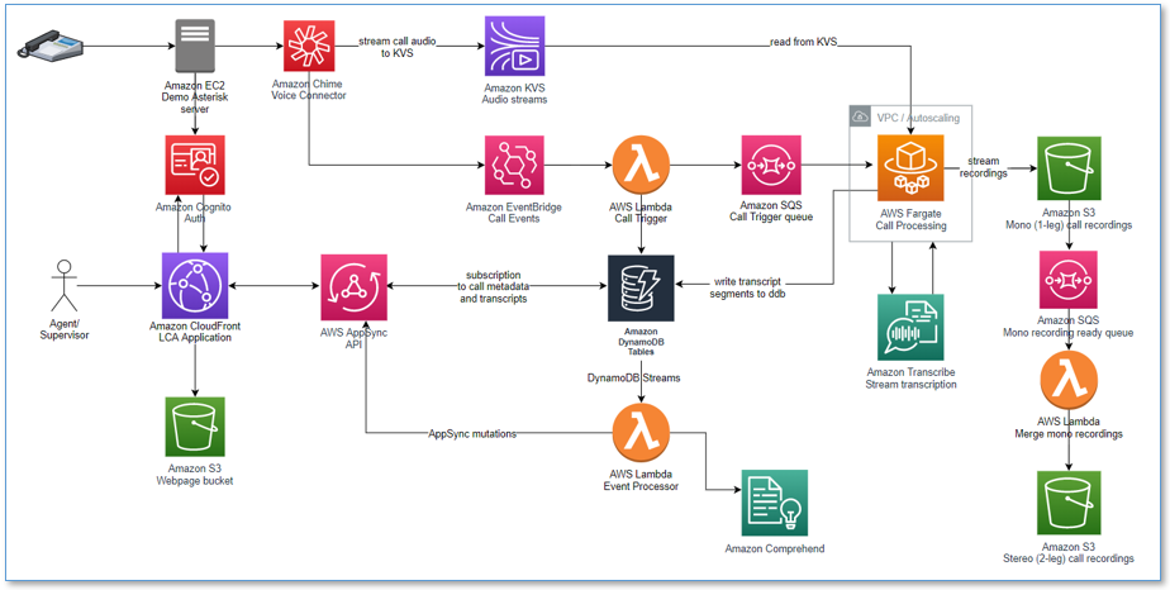
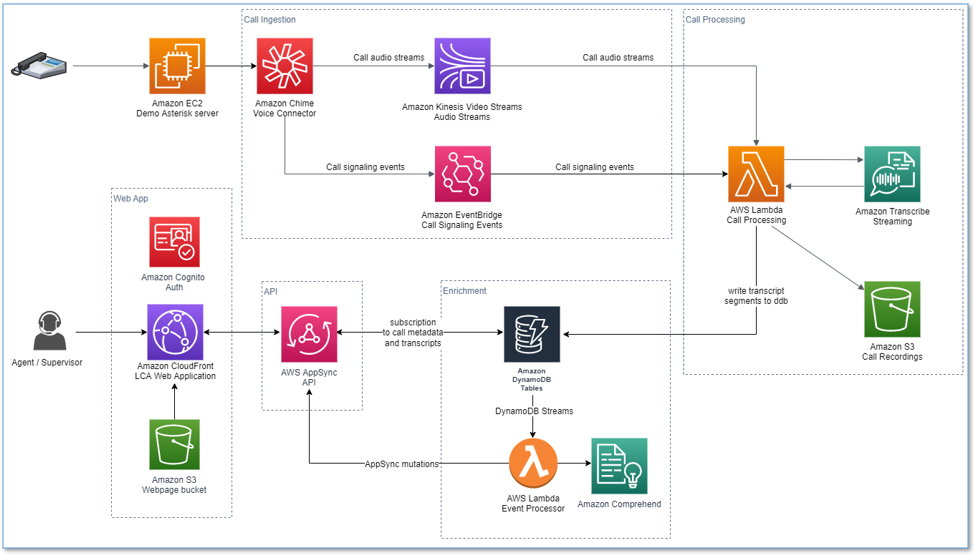
doc: update changelog, readme and licenses

Changed region(s): [[0.0, 0.0, 1.0, 1.0], [0.6776, 0.582, 0.7084, 0.6126]]

diff --git a/README.md b/README.md
@@ -1,36 +1,41 @@
 # Amazon Transcribe Live Call Analytics (LCA) Sample Solution
 *Companion AWS blog post: [Livecall analytics for your contact center with Amazon language AI services](http://www.amazon.com/live-call-analytics)*
 ## Overview
-Your contact center connects your business to your constituents, enabling customers to order products, callers to request support, clients to make appointments, and much more. When calls go well, callers retain a positive image of your brand, and are likely to return and to recommend you to others. And the converse, of course, is also true.
-So naturally you want to do what you can to ensure that your callers have a good experience. You see two aspects to this:
-1.	Help supervisors to assess the quality of your caller’s experiences in real time. For example, your supervisors need to know if initially unhappy callers become happier as the call progresses? And if not, why?  What actions can be taken, before the call ends, to assist the agent to improve the customer experience for call that are not going well?
-2.	Help agents to optimize the quality of your caller’s experiences. For example, can you deploy live call transcription removing the need for your agents to take notes during calls, freeing them to focus more attention on providing positive customer interactions.
+Your contact center connects your business to your community, enabling customers to order products, callers to request support, clients to make appointments, and much more. When calls go well, callers retain a positive image of your brand, and are likely to return and recommend you to others. And the converse, of course, is also true.
+
+Naturally, you want to do what you can to ensure that your callers have a good experience. There are two aspects to this:
+
+- Help supervisors assess the quality of your caller’s experiences in real time – For example, your supervisors need to know if initially unhappy callers become happier as the call progresses. And if not, why? What actions can be taken, before the call ends, to assist the agent to improve the customer experience for calls that aren’t going well?
+- Help agents optimize the quality of your caller’s experiences – For example, can you deploy live call transcription? This removes the need for your agents to take notes during calls, freeing them to focus more attention on providing positive customer interactions.
+
+Amazon machine learning services like Amazon Transcribe and Amazon Comprehend provide feature-rich APIs that you can use to transcribe and extract insights from your contact center audio at scale. Although you could build your own custom call analytics solution using these services, that requires time and resources. You figure that someone must have done this before, and that with luck you’ll find a solution that you can re-use.
+
 You’ve heard that Contact Lens for Amazon Connect provides real time supervisor and agent assist features that sound like they are just what you need, but you are not yet using Amazon Connect. You need a solution that will work with your existing contact center.
 
-Amazon machine learning services like Amazon Transcribe and Amazon Comprehend provide feature-rich APIs that you can use to transcribe and extract insights from your contact center audio at scale. Although you could build your own custom call analytics solution using these services, that requires time and resources. You figure that someone must have done this before, and that with luck you’ll find a solution that you can re-use. 
-
-Live Call Analytics, or LCA, does most of the heavy lifting associated with providing an end-to-end sample solution that can plug into your contact center and provide the intelligent insights that you need. 
+Live Call Analytics, or LCA, does most of the heavy lifting associated with providing an end-to-end sample solution that can plug into your contact center and provide the intelligent insights that you need.
 
 ## Architecture
 ![lca-architecture](./images/architecture-diagram.png)
-The demo Asterisk server is configured to use Amazon Chime Voice Connector which provides the phone number and SIP trunking needed to route inbound and outbound calls. When you configure LCA to integrate with your contact center instead of the demo Asterisk server, the Chime Voice Connector is configured to integrate instead with your existing contact center using SIP-based media recording (SIPREC) or network-based recording (NBR). In both cases, the Chime voice connector streams audio to Kinesis Video Streams (KVS) using 2 streams per call, one for the Caller and one for the Agent.
+The demo Asterisk server is configured to use Amazon Voice Connector, which provides the phone number and SIP trunking needed to route inbound and outbound calls. When you configure LCA to integrate with your contact center using the Chime Voice Connector (SIPREC) option, instead of the demo Asterisk server, Voice Connector is configured to integrate instead with your existing contact center using SIP-based media recording (SIPREC) or network-based recording (NBR). In both cases, Voice Connector streams audio to Kinesis Video Streams using two streams per call, one for the caller and one for the agent. (The new Genesys Cloud AudioHook integration option uses a different architecture for call ingestion and call processing – see the [Genesys AudioHook README](/lca-genesys-audiohook-stack/README.md) for details.)
 
-When a new KVS stream is initiated, an event is fired using Amazon EventBridge. This event triggers an AWS Lambda function which in turn uses an SQS queues to initiate a new call processing job in AWS Fargate, a serverless compute service for containers. A single container instance processes multiple calls simultaneously. AWS auto-scaling provisions and de-provisions additional containers dynamically as needed to handle changing call volumes.
-The Fargate container immediately creates a streaming connection with Amazon Transcribe and starts consuming and relaying audio fragments from KVS to Transcribe. The container writes the streaming transcription results in real time to a DynamoDB table. 
+When a new caller or agent Kinesis Video stream is initiated, an event is fired using EventBridge. This event triggers the Call Processing Lambda function. When both the caller and agent streams have been established, the function starts consuming real time audio fragments from both input streams and combines them to create a new stereo audio stream. The stereo audio is streamed to an Amazon Transcribe session, and the transcription results are written in real time to a DynamoDB table.
 
-An AWS Lambda function, the Call Event Stream Processor, fed by DynamoDB streams, processes and enriches call metadata and transcription segments. The event processor function interfaces with AWS AppSync to persist changes (mutations) in DynamoDB and to send real time updates to logged in web clients. 
+Each call processing session runs until the call ends. Any session that lasts longer than the maximum duration of an AWS Lambda function invocation (15 minutes) is automatically and seamlessly transitioned to a new ‘chained’ invocation of the same function, while maintaining a continuous transcription session with Amazon Transcribe. This function chaining repeats as needed until the call ends. At the end of the call the function creates a stereo recording file in Amazon S3.
 
-The LCA web UI assets are hosted on Amazon S3 and served via Amazon CloudFront. Authentication is provided by Amazon Cognito. In demo mode, user identities are configured in an Amazon Cognito user pool; in a production setting you would likely configure Cognito to integrate with your existing identity provider (IdP) so authorized users can log in with their corporate credentials.
+Another Lambda function, the Call Event Stream Processor, fed by DynamoDB streams, processes and enriches call metadata and transcription segments. The event processor function interfaces with AWS AppSync to persist changes (mutations) in DynamoDB and to send real-time updates to logged in web clients.
 
-When the user is authenticated, the web application establishes a secure GraphQL connection to the AWS AppSync API, and subscribes to receive real time events such as new calls and call status changes for the Calls list page, and new or updated transcription segments and computed analytics for the Call Details page. 
-The entire processing flow, from ingested speech to live web page updates, is event driven, and so the end to end latency is small - typically just a few seconds.
+The LCA web UI assets are hosted on Amazon S3 and served via Amazon CloudFront. Authentication is provided by Amazon Cognito. In demo mode, user identities are configured in an Amazon Cognito user pool. In a production setting, you would likely configure Amazon Cognito to integrate with your existing identity provider (IdP) so authorized users can log in with their corporate credentials.
+
+When the user is authenticated, the web application establishes a secure GraphQL connection to the AWS AppSync API, and subscribes to receive real-time events such as new calls and call status changes for the calls list page, and new or updated transcription segments and computed analytics for the call details page.
+
+The entire processing flow, from ingested speech to live webpage updates, is event driven, and so the end-to-end latency is small—typically just a few seconds.
 
 
 ## Deployment instructions
 ### (optional) Build and Publish LCA CloudFormation artifacts
 _Note: Perform this step only if you want to create deployment artifacts in your own account. Otherwise, we have hosted a CloudFormation template for 1-click deployment in the [deploy](#deploy) section_.
 
-*Pre-requisite*: You must already have the [AWS CLI](https://docs.aws.amazon.com/cli/latest/userguide/cli-chap-install.html) and the [AWS SAM CLI](https://docs.aws.amazon.com/serverless-application-model/latest/developerguide/serverless-sam-cli-install.html) (version 1.33 or higher) installed and configured. You can use an AWS Cloud9 environment.
+*Pre-requisite*: You must already have the [AWS CLI](https://docs.aws.amazon.com/cli/latest/userguide/cli-chap-install.html) and the [AWS SAM CLI](https://docs.aws.amazon.com/serverless-application-model/latest/developerguide/serverless-sam-cli-install.html) (version 1.49 or higher) installed and configured. You can use an AWS Cloud9 environment.
 
 Use the [publish.sh](./publish.sh) bash script to build the project and deploy CloudFormation templates to your own deployment bucket.
 
@@ -55,13 +60,14 @@ CLI Deploy: aws cloudformation deploy --region us-east-1 --template-file /tmp/lc
 
 ### Deploy
 
-Start your LCA experience by using AWS CloudFormation to deploy the sample solution with the built-in demo mode enabled. 
+Start your LCA experience by using AWS CloudFormation to deploy the sample solution with the built-in demo mode enabled.
+
 The demo mode downloads, builds, and installs a small virtual PBX server on an Amazon EC2 instance in your AWS account (using the free open source [Asterisk](https://www.asterisk.org/get-started/) project) so you can make test phone calls right away and see the solution in action. You can integrate it with your contact center later after evaluating the solution's functionality for your unique use case.
 
 To get LCA up and running in your own AWS account, follow these steps (if you do not have an AWS account, please see [How do I create and activate a new Amazon Web Services account?](https://aws.amazon.com/premiumsupport/knowledge-center/create-and-activate-aws-account/)):
 
-1. Log into the [AWS console](https://console.aws.amazon.com/) if you are not already.  
-*Note: If you are logged in as an IAM user, ensure your account has permissions to create and manage the necessary resources and components for this application.* 
+1. Log into the [AWS console](https://console.aws.amazon.com/) if you are not already.
+*Note: If you are logged in as an IAM user, ensure your account has permissions to create and manage the necessary resources and components for this application.*
 2. Choose one of the **Launch Stack** buttons below for your desired AWS region to open the AWS CloudFormation console and create a new stack. AWS Full-Stack Template is supported in the following regions:
 
 Region name | Region code | Launch
@@ -72,9 +78,9 @@ US West (Oregon) |	us-west-2 | [![Launch Stack](https://cdn.rawgit.com/buildkite
 3. On the CloudFormation `Create Stack` page, click `Next`
 4. Enter the following parameters:
     1. `Stack Name`: Name your stack, e.g. LiveCallAnalyticsStack
-    2. `Install Demo Asterisk Server` - Set to true to automatically install a demo Asterisk server for testing Chime Voice Connector streaming
-    3. `Allowed CIDR Block for Demo Softphone` - Ignored if `Install Demo Asterisk Server` is false. CIDR block allowed by demo Asterisk server for soft phone registration. Example: '10.1.1.0/24' 
-    4. `Allowed CIDR List for Siprec Integration` - Ignored if `Install Demo Asterisk Server` is true. Comma delimited list of CIDR blocks allowed by Chime Voice Connector for SIPREC source hosts. Example: '10.1.1.0/24, 10.1.2.0/24' 
+    2. `Call Audio Source` - Choose `Demo Asterisk PBX Server` to automatically install a demo Asterisk server for testing Chime Voice Connector streaming
+    3. `Allowed CIDR Block for Demo Softphone` - Ignored if `Call Audio Source` is not set to `Demo Asterisk PBX Server`. CIDR block allowed by demo Asterisk server for soft phone registration. Example: '10.1.1.0/24'
+    4. `Allowed CIDR List for Siprec Integration` - Ignored if `Call Audio Source ` is not set to `Demo Asterisk PBX Server`. Comma delimited list of CIDR blocks allowed by Chime Voice Connector for SIPREC source hosts. Example: '10.1.1.0/24, 10.1.2.0/24'
     5. `Admin Email Address` - Enter the email address of the admin user to be used to log into the web UI. An initial temporary password will be automatically sent via email. This email also includes the link to the web UI
     6. `Authorized Account Email Domain` - (Optional) Enter the email domain that is allowed to signup and signin using the web UI. Leave blank to disable signups via the web UI (users must be created using Cognito). If you configure a domain, **only** email addresses from that domain will be allowed to signup and signin via the web UI
     7. `Call Audio Recordings Bucket Name` - (Optional) Existing bucket where call recording files will be stored. Leave blank to automatically create new bucket
@@ -85,12 +91,15 @@ US West (Oregon) |	us-west-2 | [![Launch Stack](https://cdn.rawgit.com/buildkite
     12. `Transcription PII Redaction Entity Types` - Select the PII entity types you want to identify or redact. Remove the values that you don't want to redact from the default. *DO NOT ADD CUSTOM VALUES HERE*.
     13. `Transcription Custom Vocabulary Name` - The name of the vocabulary to use when processing the transcription job. Leave blank if no custom vocabulary to be used. If yes, the custom vocabulary must pre-exist in your account.
     14. `Enable Sentiment Analysis using Amazon Comprehend` - Enable sentiment analysis using Amazon Comprehend
-    15. `CloudFront Price Class` - The CloudFront price class. See the [CloudFront Pricing](https://aws.amazon.com/cloudfront/pricing/) for a description of each price class.
-    16. `CloudFront Allowed Geographies` - (Optional) Comma separated list of two letter country codes (uppercase ISO 3166-1) that are allowed to access the web user interface via CloudFront. For example: US,CA. Leave empty if you do not want geo restrictions to be applied. For details, see: [Restricting the Geographic Distribution of your Content](https://docs.aws.amazon.com/AmazonCloudFront/latest/DeveloperGuide/georestrictions.html).
+    15. `Demo Asterisk Download URL` - (Optional) URL used to download the Asterisk PBX software
+    16. `Demo Asterisk Agent Audio URL` - (Optional)
+    URL for audio (agent.wav) file download for demo Asterisk server. Audio file is automatically played when an agent is not connected with a softphone
+    17. `CloudFront Price Class` - The CloudFront price class. See the [CloudFront Pricing](https://aws.amazon.com/cloudfront/pricing/) for a description of each price class.
+    18. `CloudFront Allowed Geographies` - (Optional) Comma separated list of two letter country codes (uppercase ISO 3166-1) that are allowed to access the web user interface via CloudFront. For example: US,CA. Leave empty if you do not want geo restrictions to be applied. For details, see: [Restricting the Geographic Distribution of your Content](https://docs.aws.amazon.com/AmazonCloudFront/latest/DeveloperGuide/georestrictions.html).
 5. After reviewing, check the blue box for creating IAM resources.
 6. Choose **Create stack**.  This will take ~15 minutes to complete.
 7. Once the CloudFormation deployment is complete,
-    1. The admin user will receive a temporary password and the link to the CloudFront URL of the web UI (this can take a few minutes). The output of the CloudFormation stack creation will also provide a CloudFront URL (in the **Outputs** table of the stack details page). Click the link or copy and paste the CloudFront URL into your browser.
+    1. The admin user will receive a temporary password and the link to the CloudFront URL of the web UI (this can take a few minutes). The output of the CloudFormation stack creation will also provide a CloudFront URL (in the **Outputs** table of the stack details page). Click the link or copy and paste the CloudFront URL into your browser. **NOTE:** this page may not be available while the stack is completing the deployment
     2. You can sign into your application using the admin email address as the username and the temporary password you received via email. The web UI will prompt you to provide your permanent password. The user registration/login experience is run in your AWS account, and the supplied credentials are stored in Amazon Cognito. *Note: given that this is a demo application, we highly suggest that you do not use an email and password combination that you use for other purposes (such as an AWS account, email, or e-commerce site).*.
     3. Once you provide your credentials, you will be prompted to verify the email address. You can verify your account at a later time by clicking the Skip link. Otherwise, you will receive a verification code at the email address you provided (this can take a few minutes). Upon entering this verification code in the web UI, you will be signed into the application.
 
@@ -103,11 +112,11 @@ You can test this solution if you installed the demo asterisk server during depl
 
 
 ## Conclusion
-The Live Call Analytics (LCA) sample solution offers a scalable, cost-effective approach to provide live call analysis with features to assist supervisors and agents to improve focus on your callers’ experience. It uses Amazon machine learning services like Amazon Transcribe and Amazon Comprehend to transcribe and extract real time insights from your contact center audio.  
+The Live Call Analytics (LCA) sample solution offers a scalable, cost-effective approach to provide live call analysis with features to assist supervisors and agents to improve focus on your callers’ experience. It uses Amazon machine learning services like Amazon Transcribe and Amazon Comprehend to transcribe and extract real time insights from your contact center audio.
 The sample LCA application is provided as open source—use it as a starting point for your own solution, and help us make it better by contributing back fixes and features via GitHub pull requests. For expert assistance, [AWS Professional Services](https://aws.amazon.com/professional-services/) and other [AWS Partners](https://aws.amazon.com/partners/) are here to help.
 
 ## Clean Up
-Congratulations! :tada: You have completed all the steps for setting up your live call analytics sample solution using AWS services. 
+Congratulations! :tada: You have completed all the steps for setting up your live call analytics sample solution using AWS services.
 
 **To make sure you are not charged for any unwanted services, you can clean up by deleting the stack created in the _Deploy_ section and its resources.**
 

diff --git a/lca-ai-stack/README.md b/lca-ai-stack/README.md
@@ -1,5 +1,5 @@
-# Amazon Transcribe Live Call Analytics (LCA) Sample Solution 
-The Amazon Transcribe Live Call Analytics (LCA) Sample Solution provides the combination of speech to text transcription, translation into preferred languages, and insights for agents and supervisors all in real-time. This enables agents to better understand customer needs and drive resolution using the insights the solution provides while they are still interacting with their customer.
+# Amazon Transcribe Live Call Analytics (LCA) Sample Solution
+The Amazon Transcribe Live Call Analytics (LCA) Sample Solution provides the combination of speech to text transcription and insights for agents and supervisors all in real-time. This enables agents to better understand customer needs and drive resolution using the insights the solution provides while they are still interacting with their customer.
 
 This sample solution deploys resources that consume audio from any producer that streams to Amazon Kinesis Video Streams (KVS), uses Amazon Transcribe real-time streaming for transcription, Amazon Comprehend for sentiment analysis, and provides a demo website to demonstrate live call analytics capabilities.
 
@@ -11,7 +11,7 @@ This project is developed and tested on Amazon Linux 2 using AWS Cloud9. These
 are the minimum requirements for building the solution:
 
 - [AWS CLI](https://aws.amazon.com/cli/)
-- SAM CLI - [Install the SAM CLI](https://docs.aws.amazon.com/serverless-application-model/latest/developerguide/serverless-sam-cli-install.html)
+- SAM CLI 1.49 or higher - [Install the SAM CLI](https://docs.aws.amazon.com/serverless-application-model/latest/developerguide/serverless-sam-cli-install.html)
 - [Python 3 installed](https://www.python.org/downloads/)
 - Docker - [Install Docker community edition](https://hub.docker.com/search/?type=edition&offering=community)
 
@@ -36,60 +36,4 @@ chmod +x ./build-s3-dist.sh \n
 * Deploy the solution to your account by launching a new AWS CloudFormation stack using the link of the solution template in Amazon S3.
 
 ## Connecting this solution with Amazon Chime Voice Connector
-_Pre-requisites_: You need to [enable KVS Streaming](https://docs.aws.amazon.com/chime/latest/ag/start-kinesis-vc.html) on the Amazon Chime SDK Voice Connector used in your environment. When you enable Amazon Chime SDK Voice Connector streaming, make sure to select AWS EventBridge as the streaming trigger. **This solution already hooks up an EventBridge rule to the lambda triggers provided for Fargate.**
-
-* You can trigger the `transcribingFargateTrigger` lambda function from the Amazon Chime Voice Connector
-* We expect the following event from Amazon Chime SDK Voice Connector to start/stop transcription:
-```
-{
-    "version": "0",
-    "id": "8a9fdef1-5a7f-a21c-9316-5323a4add6ce",
-    "detail-type": "Chime VoiceConnector Streaming Status",
-    "source": "aws.chime",
-    "account": "253873381732",
-    "time": "2021-10-11T17: 52: 17Z",
-    "region": "us-east-1",
-    "resources": [],
-    "detail": {
-        "callId": "945a7111-4cea-41e2-b595-0a92357c71a9",
-        "direction": "Outbound",
-        "fromNumber": "+16187380858",
-        "inviteHeaders": {
-            "record-route": "<sip: 3.80.16.11;lr;ftag=0f052c39-457b-48b6-a8fc-0d815d553237;did=1b21.5631;nat=yes>",
-            "via": "SIP/2.0/UDP 3.80.16.11: 5060;branch=z9hG4bKc4bd.53e495a850daea71fa943001d43d9089.0;received=10.0.156.52;rport=5060,SIP/2.0/UDP 3.90.117.176: 5060;received=3.90.117.176;rport=5060;branch=z9hG4bKPj95ae6679-47e7-4e31-8170-3bf809236a71",
-            "from": "<sip:+16187380858@10.0.0.202>;tag=0f052c39-457b-48b6-a8fc-0d815d553237",
-            "to": "<sip:+18123610485@dip1c02pjd3bkznvs6wwmu.voiceconnector.chime.aws>",
-            "contact": "<sip:asterisk@3.90.117.176: 5060>",
-            "call-id": "945a7111-4cea-41e2-b595-0a92357c71a9",
-            "cseq": "27005 INVITE",
-            "allow": "OPTIONS, REGISTER, SUBSCRIBE, NOTIFY, PUBLISH, INVITE, ACK, BYE, CANCEL, UPDATE, PRACK, MESSAGE, REFER",
-            "supported": "100rel, timer, replaces, norefersub, histinfo",
-            "session-expires": "1800",
-            "min-se": "90",
-            "max-forwards": "69",
-            "user-agent": "Asterisk PBX 16.20.0",
-            "content-type": "application/sdp",
-            "content-length": "452"
-        },
-        "isCaller": "True",
-        "mediaType": "audio/L16",
-        "startFragmentNumber": "91343852333181447247962534065089262372655059081",
-        "startTime": "2021-10-11T17: 52: 17.524Z",
-        "streamArn": "arn:aws:kinesisvideo:us-east-1: 253873381732:stream/ChimeVoiceConnector-dip1c02pjd3bkznvs6wwmu-fc503996-4d83-4732-ad40-eda969ab32a8/1633411045410",
-        "toNumber": "+18123610485",
-        "transactionId": "98a333db-f5c1-4e90-9935-372d18cb9e26",
-        "voiceConnectorId": "dip1c02pjd3bkznvs6wwmu",
-        "streamingStatus": "STARTED",
-        "version": "0"
-    }
-}
-
-```
-
-***
-
-Copyright Amazon.com, Inc. or its affiliates. All Rights Reserved.
-SPDX-License-Identifier: Apache-2.0
-
-Licensed under the the Apache-2.0 License. See the LICENSE file.
-This file is distributed on an "AS IS" BASIS, WITHOUT WARRANTIES OR CONDITIONS OF ANY KIND, express or implied. See the License for the specific language governing permissions and limitations under the License.
+_Pre-requisites_: You need to [enable KVS Streaming](https://docs.aws.amazon.com/chime/latest/ag/start-kinesis-vc.html) on the Amazon Chime SDK Voice Connector used in your environment. When you enable Amazon Chime SDK Voice Connector streaming, make sure to select AWS EventBridge as the streaming trigger. **This solution already hooks up an EventBridge rule to the Lambda KVS Consumer and Streaming Transcriber.**

diff --git a/CHANGELOG.md b/CHANGELOG.md
@@ -5,19 +5,47 @@ The format is based on [Keep a Changelog](https://keepachangelog.com/en/1.0.0/),
 and this project adheres to [Semantic Versioning](https://semver.org/spec/v2.0.0.html).
 
 ## [Unreleased]
+
+## [0.3.0] - 2022-05-18
+### Added
+- Support for [Genesys AudioHook](https://help.mypurecloud.com/articles/audiohook-integration-overview/). You can now
+  stream call audio into the Live Call Analytics solution from a Genesys AudioHook. See the details in the
+  [README](https://github.com/aws-samples/amazon-transcribe-live-call-analytics/blob/main/lca-genesys-audiohook-stack/README.md)
+  file
 ### Changed
-- Updated the Python GraphQL client in the Call Event Stream Processor Lambda function to the
-  recently released stable version [gql v3.0.0](https://github.com/graphql-python/gql/releases/tag/v3.0.0).
-  This version is now out of pre-release which removed the need for the Makefile based sam cli
-  build of the Lambda layer. The library also added direct support for AppSync which removed the
-  need for the custom AppSync transport and authentication code. The Makefile build and custom
+- Changed the audio stream consumer and transcriber component to run on AWS Lambda instead of AWS Fargate. This new Call
+  Transcriber provides the following benefits:
+    * Reduced Amazon Transcribe processing cost. The agent and caller audio streams are now automatically merged into a
+      single stereo stream.  Both the agent and caller audio streams are transcribed in a single session
+    * Longer call duration handling. The Fargate consumer had a timeout of 42 minutes. The new Lambda based transcriber
+      has a mechanism that allows to transparently handoff the call processing from one Lambda invocation to another
+    * Faster scaling on sudden call volume spikes
+    * Simplified stereo recording process. The stereo recordings are now produced by the Call Transcriber instead of
+      merging recording files after the call was done
+    * Serverless!
+- Additional language support
+- The Call Event Stream Processor Lambda function now runs on the arm64 architecture. The new Call Transcriber Lambda
+  function also runs on arm64. The build was updated to enable arm64 emulation when using the SAM CLI in Amazon Linux 2
+- Partial transcript events are now only persisted for 1 day in DynamoDB. Final transcript events are persisted for 90
+  days by default
+- Separated the build and development python virtual environments to avoid development dependencies interfere with the
+  SAM CLI
+- Updated the Python GraphQL client in the Call Event Stream Processor Lambda function to the released stable version
+  [gql v3.2.0](https://github.com/graphql-python/gql/releases/tag/v3.2.0). This version is now out of pre-release which
+  removed the need for the Makefile based SAM CLI build of the Lambda layer. The library also added direct support for
+  AppSync which removed the need for the custom AppSync transport and authentication code. The Makefile build and custom
   AppSync code has been deleted
 - Updated dependency versions of various components including:
     - Web UI
-    - KVS Transcribe Processor Fargate container
     - Call Event Processor Lambda function
-    - S3 Recording Trigger Lambda function
     - Project build and development
+- Updated nodejs and npm versions used in CodeBuild to build the UI
+- Fixed demo agent recording download issue
+### Removed
+- The resources associated with the Fargate consumer such as Fargate cluster/service/task definition, VPC, SQS queues
+  and autoscaling were removed in favor of the new Lambda based Call Transcriber
+- The resources associated with the creation of post call stereo recordings (including Lambda functions, S3 bucket and
+  SQS queue) were removed in favor of the new Call Transcriber that merges the audio into stereo recordings at call time
 
 ## [0.2.1] - 2022-02-02
 ### Fixed
@@ -61,7 +89,8 @@ and this project adheres to [Semantic Versioning](https://semver.org/spec/v2.0.0
 ### Added
 - Initial release
 
-[Unreleased]: https://github.com/aws-samples/amazon-transcribe-live-call-analytics/compare/v0.2.1...develop
+[Unreleased]: https://github.com/aws-samples/amazon-transcribe-live-call-analytics/compare/v0.3.0...develop
+[0.3.0]: https://github.com/aws-samples/amazon-transcribe-live-call-analytics/compare/v0.2.1...v0.3.0
 [0.2.1]: https://github.com/aws-samples/amazon-transcribe-live-call-analytics/compare/v0.2.0...v0.2.1
 [0.2.0]: https://github.com/aws-samples/amazon-transcribe-live-call-analytics/compare/v0.1.0...v0.2.0
 [0.1.0]: https://github.com/aws-samples/amazon-transcribe-live-call-analytics/releases/tag/v0.1.0
